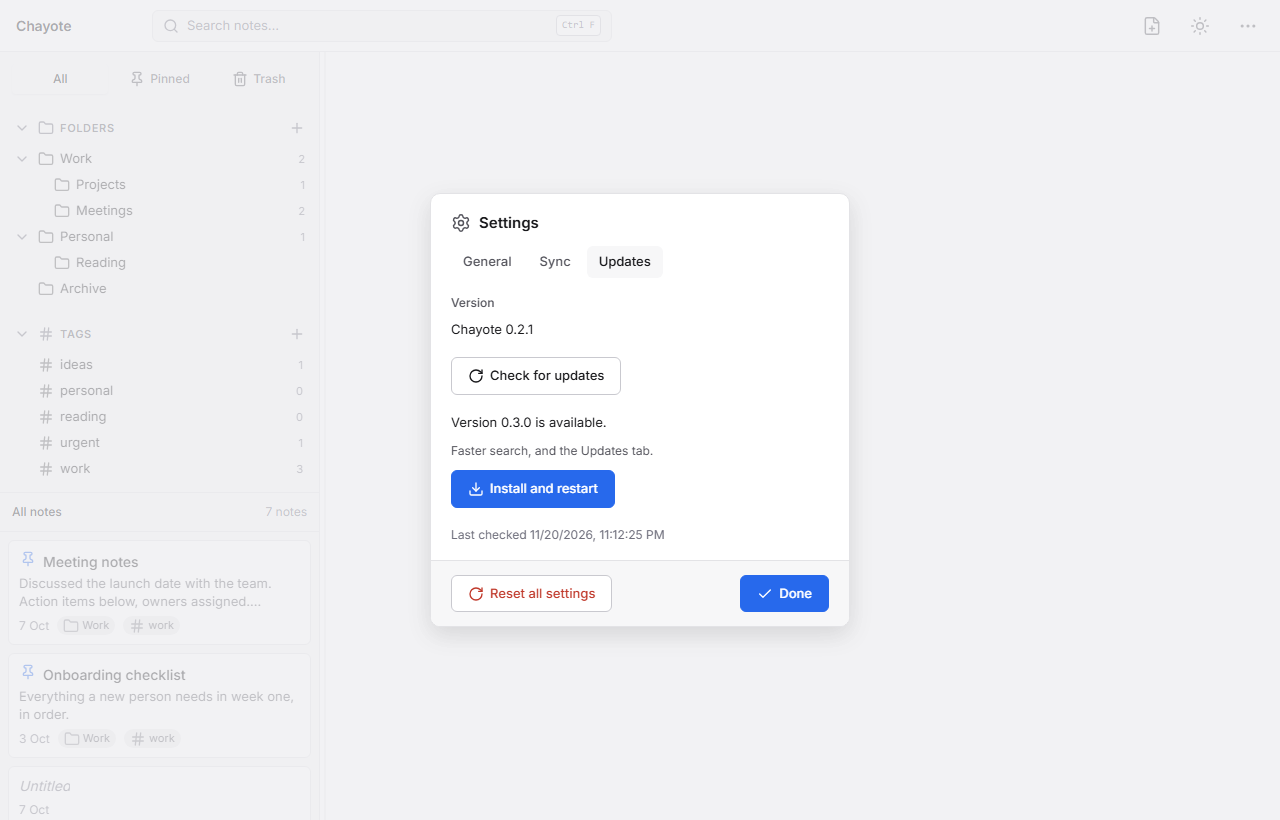
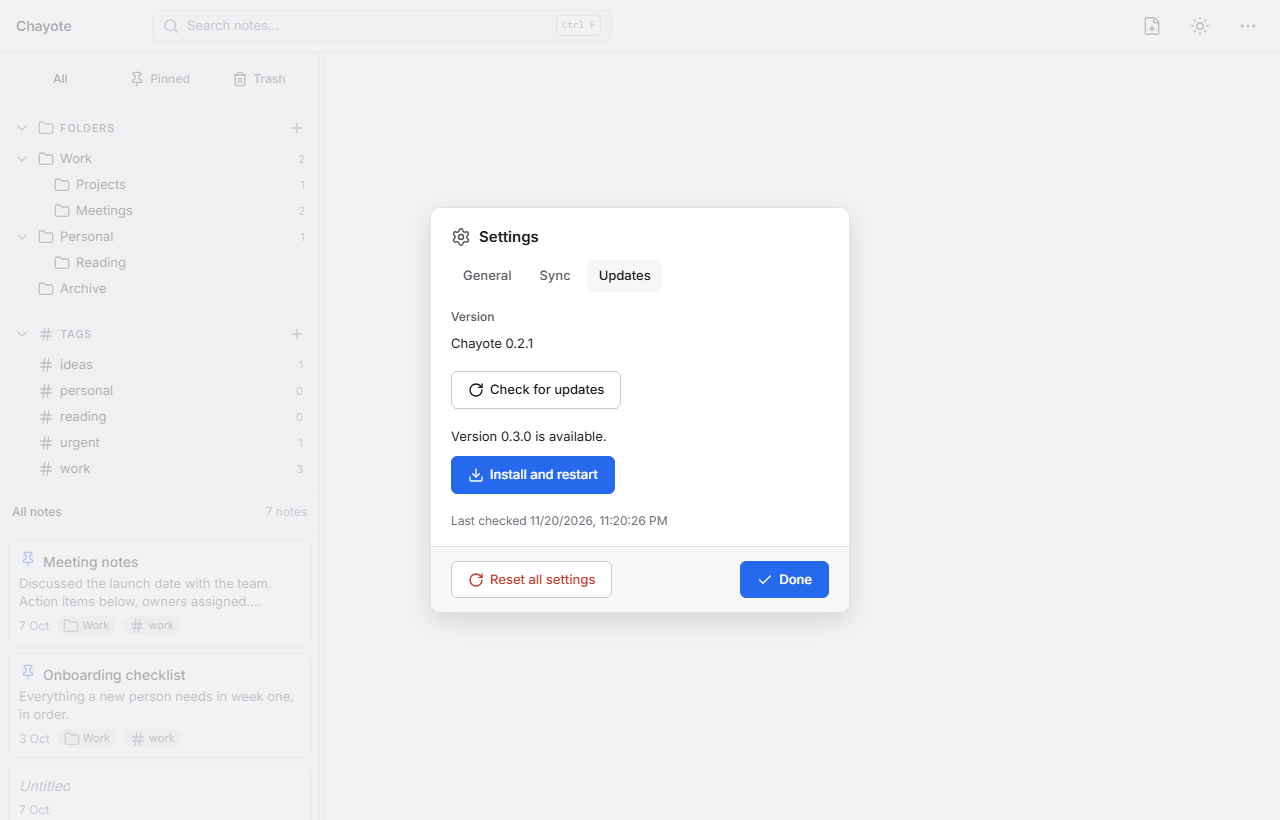
fix(updates): drop release notes from the Updates tab
The notes were the GitHub Release body - a download table and install
advice written for the web page - and even unwrapped and stripped of
Markdown they told the reader nothing to act on. The tab now shows the
version and the Install button; UpdateSummary loses its notes field, and
the notes generator and its parser go with it.

diff --git a/src/components/UpdatePane.test.tsx b/src/components/UpdatePane.test.tsx
@@ -21,7 +21,6 @@ const ANDROID: AppInfo = { version: '0.2.1', os: 'Android', updatesSupported: tr
 
 const FOUND: UpdateSummary = {
   version: '0.3.0',
-  notes: 'Faster search, and the Updates tab.',
   date: '2026-10-17T09:00:00Z',
 };
 
@@ -93,25 +92,8 @@ describe('UpdatePane', () => {
   it('offers the install only when a check found something newer', () => {
     render(<UpdatePane {...pane({ update: FOUND, lastCheckedAt: 1_780_000_000_000 })} />);
     expect(text('update-available')).toContain('Version 0.3.0 is available.');
-    expect(text('update-available')).toContain(FOUND.notes);
     expect(screen.queryByTestId('update-current')).toBeNull();
     expect(text('update-install')).toContain('Install and restart');
-  });
-
-  it('omits the notes block rather than rendering an empty one', () => {
-    render(<UpdatePane {...pane({ update: { ...FOUND, notes: '   ' } })} />);
-    const available = screen.getByTestId('update-available');
-    expect(available.textContent).toContain('Version 0.3.0 is available.');
-    /* Two paragraphs would be the headline and an empty one. */
-    expect(available.querySelectorAll('p')).toHaveLength(1);
-  });
-
-  it('renders notes as text, never as markup from the release manifest', () => {
-    const hostile = { ...FOUND, notes: '<img src=x onerror="alert(1)"><b>bold</b>' };
-    const { container } = render(<UpdatePane {...pane({ update: hostile })} />);
-    expect(container.querySelector('img')).toBeNull();
-    expect(container.querySelector('b')).toBeNull();
-    expect(text('update-available')).toContain('<img src=x onerror="alert(1)">');
   });
 
   it('disables the check and says why on a platform that cannot update', () => {
@@ -184,32 +166,6 @@ describe('UpdatePane', () => {
       />,
     );
     expect(screen.getByRole('alert').textContent).toContain('installer reported aborted');
-  });
-
-  it('reads release notes as text: unwrapped, listed, and capped', () => {
-    /* The v0.2.1 manifest carried the GitHub release body, and the tab printed
-       its table, its asterisks and its hard line breaks verbatim. */
-    render(
-      <UpdatePane
-        {...pane({
-          update: {
-            ...FOUND,
-            notes:
-              '**Android:** install the APK once by hand\nto replace any earlier build.\n\n- Faster search\n- <b>not markup</b>',
-          },
-        })}
-      />,
-    );
-    const notes = screen.getByTestId('update-notes');
-    expect(notes.textContent).toContain(
-      'Android: install the APK once by hand to replace any earlier build.',
-    );
-    expect(notes.textContent).not.toContain('**');
-    expect(notes.querySelectorAll('p')).toHaveLength(3);
-    /* Text, never markup. */
-    expect(notes.querySelector('b')).toBeNull();
-    expect(notes.textContent).toContain('<b>not markup</b>');
-    expect(notes.className).toContain('overflow-y-auto');
   });
 
   it('says the install was handed over once Android accepted it', () => {

diff --git a/src/components/UpdatePane.tsx b/src/components/UpdatePane.tsx
@@ -1,6 +1,4 @@
-import { useMemo } from 'react';
 import { Download, RotateCw } from 'lucide-react';
-import { releaseNoteBlocks } from '../lib/releaseNotes';
 import type { AppInfo, UpdateSummary } from '../types/update';
 
 /* The Updates tab of the settings dialog: the running version, a check the user
@@ -77,7 +75,6 @@ export function UpdatePane({
   const busy = isChecking || isInstalling;
   const percent =
     total !== null && total > 0 ? Math.min(100, Math.round((downloaded / total) * 100)) : null;
-  const notes = useMemo(() => releaseNoteBlocks(update?.notes ?? ''), [update?.notes]);
 
   return (
     <div className="flex flex-col gap-[18px]" data-testid="update-pane">
@@ -143,30 +140,6 @@ export function UpdatePane({
       {update !== null && !isChecking ? (
         <div className="flex flex-col gap-[10px]" data-testid="update-available">
           <p className="text-[13px] text-[var(--text)]">Version {update.version} is available.</p>
-          {/* Release notes as plain text. `latest.json` carries them as
-              untrusted text from a remote file, and the app has no Markdown
-              renderer — rendering these as HTML would be the paste-sanitizer
-              problem (`04-editor.md` §5) in a place nobody thought to check.
-              `releaseNoteBlocks` only splits and unwraps; every block is a text
-              node. Capped and scrollable, so a long body cannot push the Install
-              button off a phone screen. */}
-          {notes.length > 0 ? (
-            <div
-              className="flex max-h-[160px] flex-col gap-1 overflow-y-auto text-[12px] text-[var(--text-muted)]"
-              data-testid="update-notes"
-            >
-              {notes.map((block, index) =>
-                block.kind === 'item' ? (
-                  <p key={index} className="flex gap-1.5 pl-1">
-                    <span aria-hidden="true">•</span>
-                    <span>{block.text}</span>
-                  </p>
-                ) : (
-                  <p key={index}>{block.text}</p>
-                ),
-              )}
-            </div>
-          ) : null}
           {installError !== null ? (
             <p
               className={`text-[12px] ${

diff --git a/prototype/index.html b/prototype/index.html
@@ -1315,7 +1315,6 @@ body {
               <svg class="icon i-16" aria-hidden="true"><use href="#i-rotate-cw"/></svg>Check for updates
             </button>
             <div class="unote-strong">Version 0.3.0 is available.</div>
-            <div class="unote">Faster search on large notes, and the Updates tab.</div>
             <button class="ubtn primary">
               <svg class="icon i-16" aria-hidden="true"><use href="#i-download"/></svg>Install and restart
             </button>
@@ -1383,7 +1382,6 @@ body {
               <svg class="icon i-16" aria-hidden="true"><use href="#i-rotate-cw"/></svg>Check for updates
             </button>
             <div class="unote-strong">Version 0.3.0 is available.</div>
-            <div class="unote">Faster search on large notes, and the Updates tab.</div>
             <button class="ubtn primary">
               <svg class="icon i-16" aria-hidden="true"><use href="#i-download"/></svg>Install and restart
             </button>

diff --git a/src/mock/contract.test.ts b/src/mock/contract.test.ts
@@ -244,12 +244,9 @@ describe('mock adapter against the real command surface', () => {
     const seeded = createMockBackend(buildMockDatabase(), { updateFeed: 'available' });
     const found = await seeded.invoke('updates_check', {});
     expect(found).not.toBeNull();
-    expect(Object.keys(found ?? {}).sort()).toEqual(['date', 'notes', 'version']);
+    /* No `notes`: the tab does not show release notes (`05-ui-ux.md`). */
+    expect(Object.keys(found ?? {}).sort()).toEqual(['date', 'version']);
     expect(typeof found?.version).toBe('string');
-    expect(typeof found?.notes).toBe('string');
-    /* `notes` is a string and never null: the pane has no use for a key it
-       cannot render, and Rust already collapsed a missing one to "". */
-    expect(found?.notes).not.toBeNull();
   });
 
   it('claims no update support on the unsupported feed, and says which platform', async () => {

diff --git a/e2e/updates.spec.ts b/e2e/updates.spec.ts
@@ -66,7 +66,6 @@ test.describe('Updates', () => {
     await page.getByTestId('update-check').click();
 
     await expect(page.getByTestId('update-available')).toContainText('Version 0.3.0 is available.');
-    await expect(page.getByTestId('update-available')).toContainText('Faster search');
     await expect(page.getByTestId('update-install')).toBeEnabled();
     /* Not both: an available update is not also an up-to-date one. */
     await expect(page.getByTestId('update-current')).toHaveCount(0);

diff --git a/src/types/update.ts b/src/types/update.ts
@@ -14,8 +14,6 @@ export type AppInfo = {
 
 export type UpdateSummary = {
   version: string;
-  /** Release notes, or an empty string when `latest.json` carried none. */
-  notes: string;
   /** RFC 3339, shown as-is. Never parsed. */
   date: string | null;
 };

diff --git a/src/mock/adapter.ts b/src/mock/adapter.ts
@@ -29,7 +29,6 @@ const MOCK_VERSION = '0.2.1';
 /** The one update the fallback can offer, for `?seed=update`. */
 const MOCK_UPDATE = {
   version: '0.3.0',
-  notes: 'Faster search, and the Updates tab.',
   date: '2026-10-17T09:00:00Z',
 };
 

diff --git a/src-tauri/src/commands/updates.rs b/src-tauri/src/commands/updates.rs
@@ -38,9 +38,6 @@ struct Pending {
 #[serde(rename_all = "camelCase")]
 pub struct UpdateSummary {
     pub version: String,
-    /// Release notes, or an empty string. `latest.json` may omit `notes`
-    /// entirely, and the tab has no use for a key it cannot render.
-    pub notes: String,
     /// RFC 3339, formatted for the reader rather than parsed anywhere.
     pub date: Option<String>,
 }
@@ -70,7 +67,6 @@ pub async fn updates_check(
     let update = updater(&app)?.check().await.map_err(network)?;
     let summary = update.as_ref().map(|found| UpdateSummary {
         version: found.version.clone(),
-        notes: found.body.clone().unwrap_or_default(),
         date: found.date.map(|date| date.to_string()),
     });
     let mut state = lock(&pending)?;

diff --git a/docs/05-ui-ux.md b/docs/05-ui-ux.md
@@ -458,7 +458,7 @@ Four rules this tab holds to, each of which is a screen someone could get wrong:
 - **A platform that cannot update gets a disabled button and a sentence, not a working button that fails.** macOS is named and told what to do instead (`06-platform.md` §3.8), the same shape as the existing "Sync is unavailable here." fallback.
 - **Android's outstanding install grant is worded as something to do, and never styled as a failure** (ADR-025). `REQUEST_INSTALL_PACKAGES` has no runtime prompt — it is granted in system settings — so "try again" alone would leave the user pressing a button that cannot work. The verified bytes are still on disk and the next press installs them, so the Install button stays live and the error reads as guidance. It is the one error code the pane gives a sentence of its own.
 - **One action at a time.** Checking and installing are both round trips against the same manifest, and the second replaces the running process.
-- **Release notes are plain text.** `latest.json` carries them as untrusted text from a remote file and the app has no Markdown renderer, so they are never rendered as markup — the paste-sanitizer problem (`04-editor.md` §5) in a place nobody thought to check They are *read*, though, not printed: `src/lib/releaseNotes.ts` joins hard-wrapped lines into paragraphs, turns `- ` lines into list items, and drops `**`, backticks and link URLs, and the block is capped at 160 px and scrolls, so a long body cannot push the Install button off a phone. v0.2.1 printed its whole GitHub release body verbatim — table, asterisks, line breaks and all — and the manifest now carries a short list built for this tab instead (`scripts/release-notes.mjs`, `06-platform.md` §3.8.2).
+- **No release notes.** `latest.json` carries the GitHub Release body as `notes`, and that body is written for the web page — a download table, Markdown, install advice for people who do not have the app yet. v0.2.1 printed it verbatim under the Install button, and even cleaned up it told the reader nothing they could act on. The tab shows the version and the button; what changed is on the releases page.
 - **An install is retryable until a new check replaces it.** The checked update is read by an install, never consumed, so a press after Android's grant screen, a dropped download or a dismissed confirmation installs the same update. Once Android has accepted the package the tab says so (`update-installed`) instead of flashing an error before the system closes the app.
 
 **Sync** carries the connection string, an enable switch, an explicit Save (the only field in the dialog that does not apply on change, because it is secret text the user may still be editing), Sync now, Re-upload everything, status, and the conflict resolver; `07-sync-plan.md` §6 is the recovery story behind it.

diff --git a/docs/06-platform.md b/docs/06-platform.md
@@ -210,7 +210,7 @@ minisign key in §3.8.3, with data attached.
 https://github.com/vladimirbsuir/chayote/releases/latest/download/latest.json
 ```
 
-`latest.json` is a **static** file, generated by `tauri-apps/tauri-action` during `release.yml` and attached to the GitHub Release for the tag. Its `notes` are not the Release body: `tauri-action` copies the body in, and the body is written for the web page (a download table, Markdown, install advice), so the Android job replaces `notes` with the `feat`/`fix`/`perf` subjects since the previous tag, from `scripts/release-notes.mjs`. The repository is public, so that URL is readable without a token and without a proxy of any kind. `latest.json` is merged across the workflow matrix rather than overwritten: each job downloads the asset already on the Release and adds its own platform keys.
+`latest.json` is a **static** file, generated by `tauri-apps/tauri-action` during `release.yml` and attached to the GitHub Release for the tag. Its `notes` (the Release body, copied in by `tauri-action`) are not shown by the app (`05-ui-ux.md`, the Updates tab). The repository is public, so that URL is readable without a token and without a proxy of any kind. `latest.json` is merged across the workflow matrix rather than overwritten: each job downloads the asset already on the Release and adds its own platform keys.
 
 The old `release.yml` uploaded bundles as Actions artifacts, which is not an endpoint — an artifact bucket needs a session to read. Publishing a Release is what makes the updater possible at all, and it is the reason ADR-024 exists.
 
